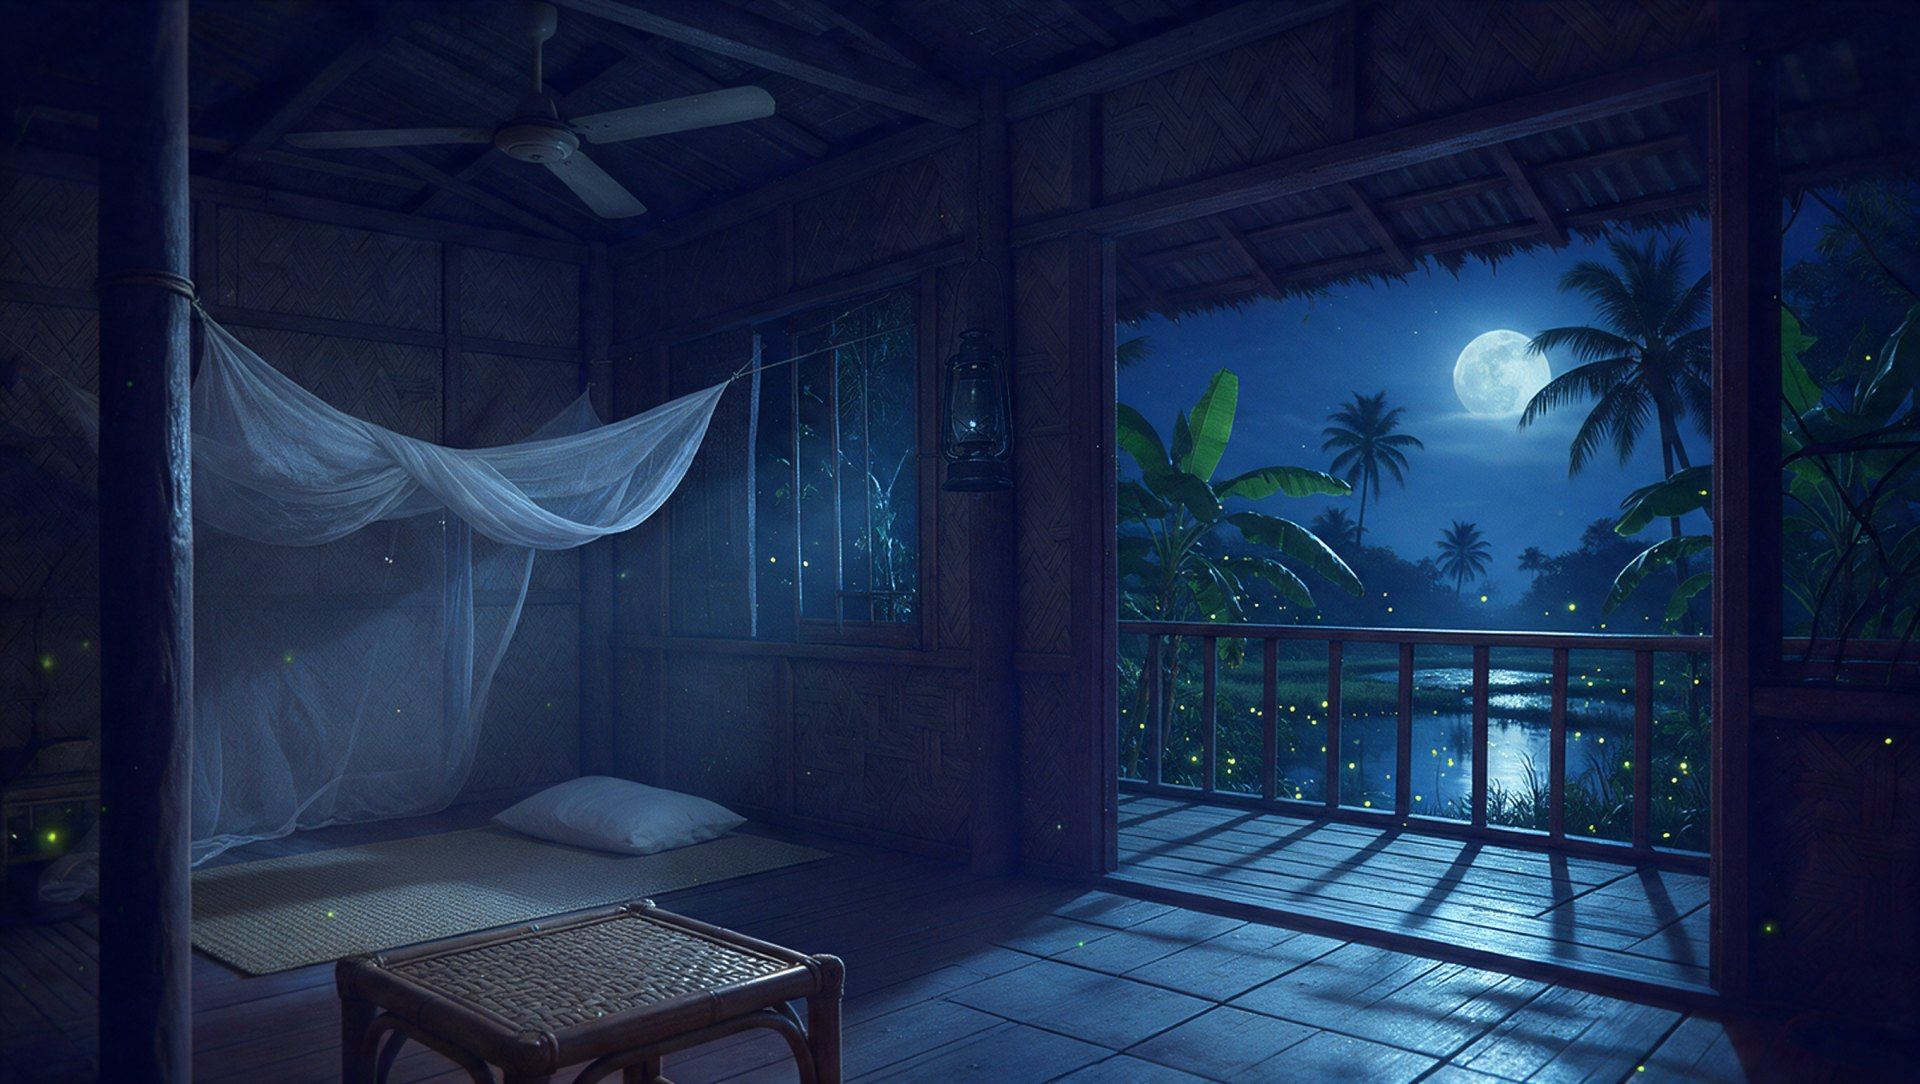
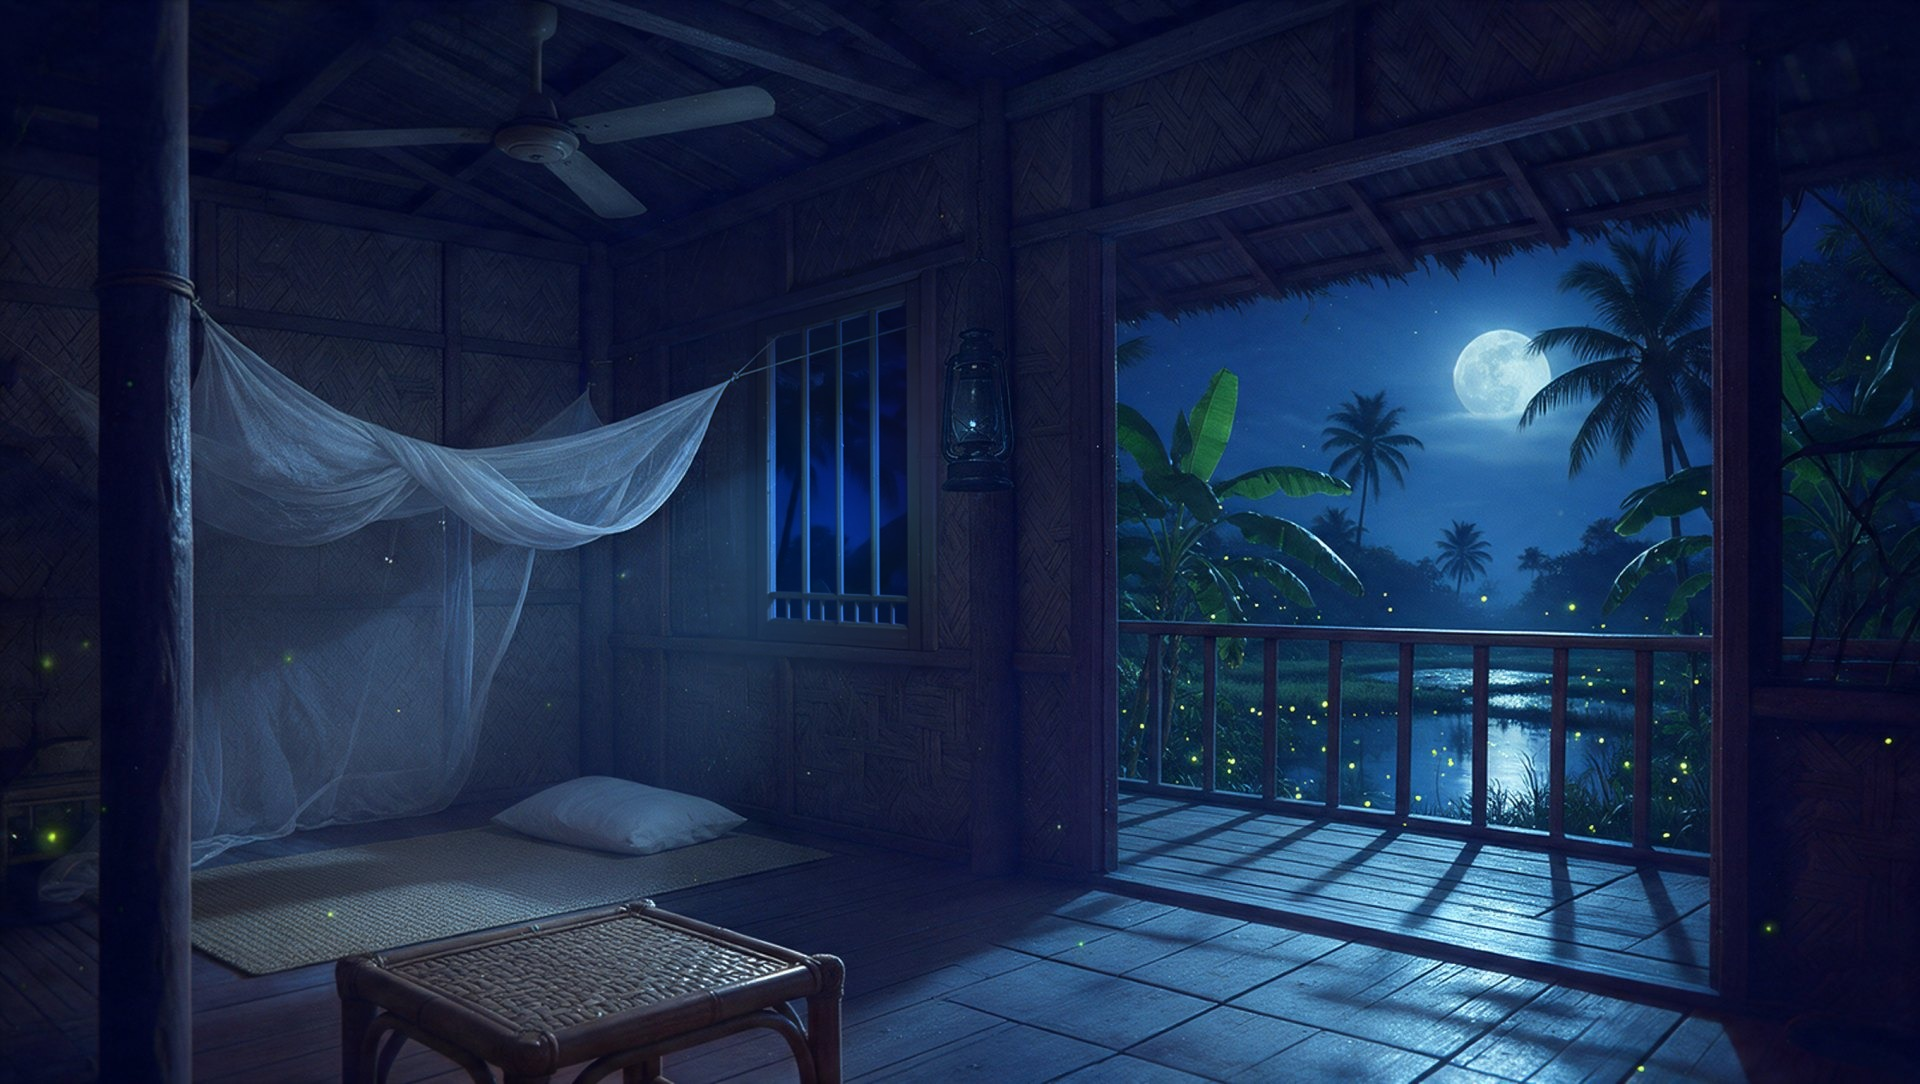
Sea: straight side window (Seedream 5 Pro) with rebuilt glass mask
Claude-Session: https://claude.ai/code/session_01WmePPEVtycNtDwciTC66yT

Changed region(s): [[0.375, 0.3044, 0.5, 0.5784]]

diff --git a/public/index.html b/public/index.html
@@ -449,7 +449,7 @@ function framesFor(key){if(!LABFR||!LABFR[key])return null;if(FRM[key])return FR
     return Promise.all([...[...Array(j.n).keys()].flatMap(i=>[loadTex(dir+'/on_'+id(i)+'.jpg'),loadTex(dir+'/off_'+id(i)+'.jpg')]),
       ...[...Array(j.n-1).keys()].flatMap(i=>[loadTex(dir+'/fab_'+id(i)+'.png'),loadTex(dir+'/fba_'+id(i)+'.png')])])}).then(a=>{const m=2*F.n,A=a.slice(0,m),B=a.slice(m);
       F.on=A.filter((_,i)=>i%2==0);F.off=A.filter((_,i)=>i%2==1);F.fab=B.filter((_,i)=>i%2==0);F.fba=B.filter((_,i)=>i%2==1);F.ready=true}).catch(()=>{});return F}
-function texFor(key){if(!cache.has(key))cache.set(key,Promise.all(FILES.map(n=>loadTex(((LAB&&LAB[key])||key)+'/'+n+(/^(out_|mask|plate_|maps)/.test(n)?'?v=24':'')))).then(a=>Object.fromEntries(FILES.map((n,i)=>[n.split('.')[0],a[i]]))));return cache.get(key)}
+function texFor(key){if(!cache.has(key))cache.set(key,Promise.all(FILES.map(n=>loadTex(((LAB&&LAB[key])||key)+'/'+n+(/^(out_|mask|plate_|maps)/.test(n)?'?v=25':'')))).then(a=>Object.fromEntries(FILES.map((n,i)=>[n.split('.')[0],a[i]]))));return cache.get(key)}
 function evict(keep){for(const [k,p] of cache)if(!keep.includes(k)){cache.delete(k);p.then(T=>Object.values(T).forEach(t=>t.dispose()))}}
 const tvCan=document.createElement('canvas');tvCan.width=128;tvCan.height=96;const tvCtx=tvCan.getContext('2d');
 const tTV=new THREE.CanvasTexture(tvCan);tTV.minFilter=THREE.LinearFilter;tTV.generateMipmaps=false;

diff --git a/public/lab.html b/public/lab.html
@@ -450,7 +450,7 @@ function framesFor(key){if(!LABFR||!LABFR[key])return null;if(FRM[key])return FR
     return Promise.all([...[...Array(j.n).keys()].flatMap(i=>[loadTex(dir+'/on_'+id(i)+'.jpg'),loadTex(dir+'/off_'+id(i)+'.jpg')]),
       ...[...Array(j.n-1).keys()].flatMap(i=>[loadTex(dir+'/fab_'+id(i)+'.png'),loadTex(dir+'/fba_'+id(i)+'.png')])])}).then(a=>{const m=2*F.n,A=a.slice(0,m),B=a.slice(m);
       F.on=A.filter((_,i)=>i%2==0);F.off=A.filter((_,i)=>i%2==1);F.fab=B.filter((_,i)=>i%2==0);F.fba=B.filter((_,i)=>i%2==1);F.ready=true}).catch(()=>{});return F}
-function texFor(key){if(!cache.has(key))cache.set(key,Promise.all(FILES.map(n=>loadTex(((LAB&&LAB[key])||key)+'/'+n+(/^(out_|mask|plate_|maps)/.test(n)?'?v=24':'')))).then(a=>Object.fromEntries(FILES.map((n,i)=>[n.split('.')[0],a[i]]))));return cache.get(key)}
+function texFor(key){if(!cache.has(key))cache.set(key,Promise.all(FILES.map(n=>loadTex(((LAB&&LAB[key])||key)+'/'+n+(/^(out_|mask|plate_|maps)/.test(n)?'?v=25':'')))).then(a=>Object.fromEntries(FILES.map((n,i)=>[n.split('.')[0],a[i]]))));return cache.get(key)}
 function evict(keep){for(const [k,p] of cache)if(!keep.includes(k)){cache.delete(k);p.then(T=>Object.values(T).forEach(t=>t.dispose()))}}
 const tvCan=document.createElement('canvas');tvCan.width=128;tvCan.height=96;const tvCtx=tvCan.getContext('2d');
 const tTV=new THREE.CanvasTexture(tvCan);tTV.minFilter=THREE.LinearFilter;tTV.generateMipmaps=false;
